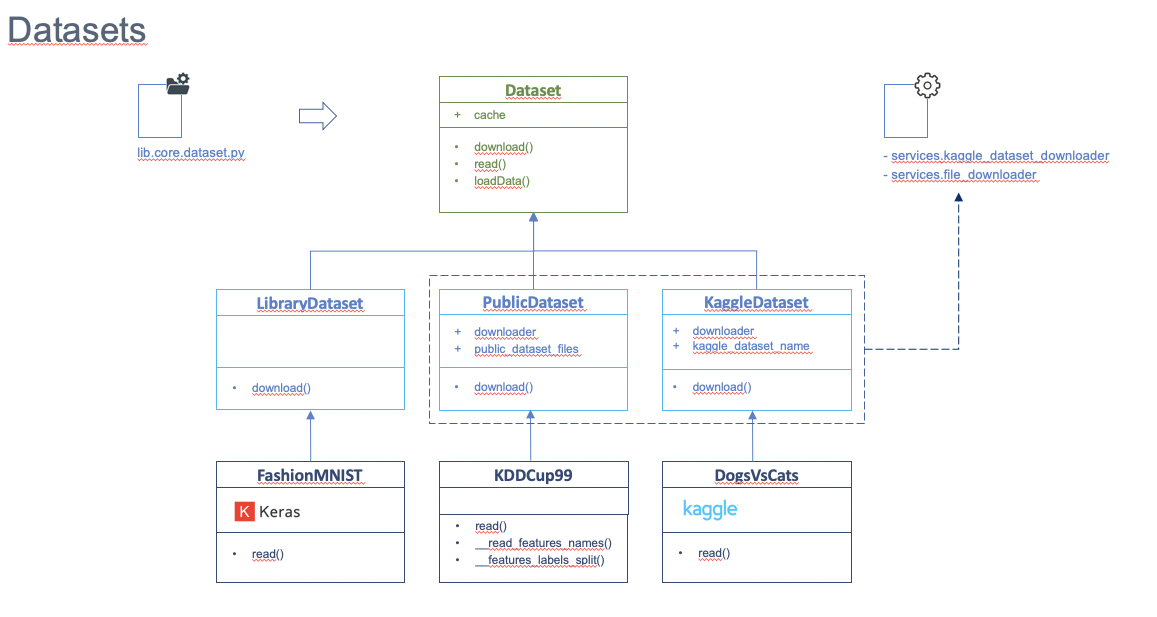
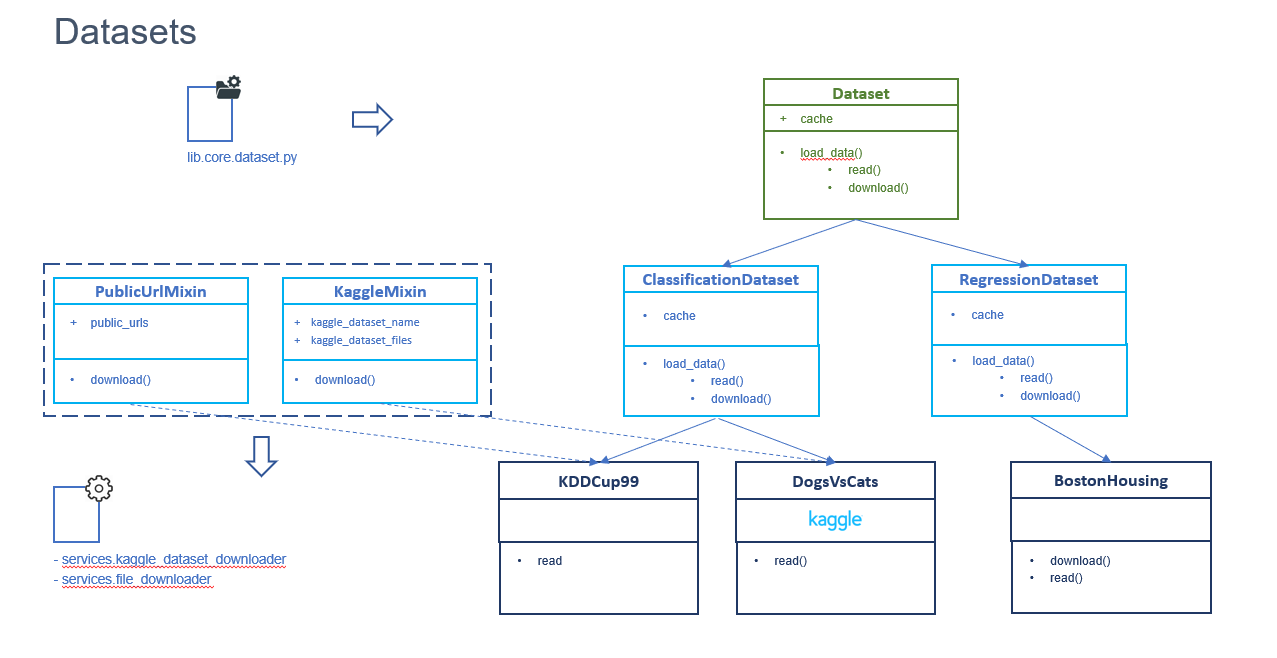
Update diagram documentation datasets

diff --git a/docs/source/gymnos-in-depth/architecture.rst b/docs/source/gymnos-in-depth/architecture.rst
@@ -71,6 +71,9 @@ Typical tasks such as:
 will be handled by the ``Dataset()`` class in first place and the corresponding dataset
 specialization via the ``lib.core.dataset`` library.  
 
+.. image:: ../images/gymnos-datasets.png
+    :width: 100%
+    :align: center
 
 .. image:: ../images/flow-diagram-dataset.png
     :width: 55%
